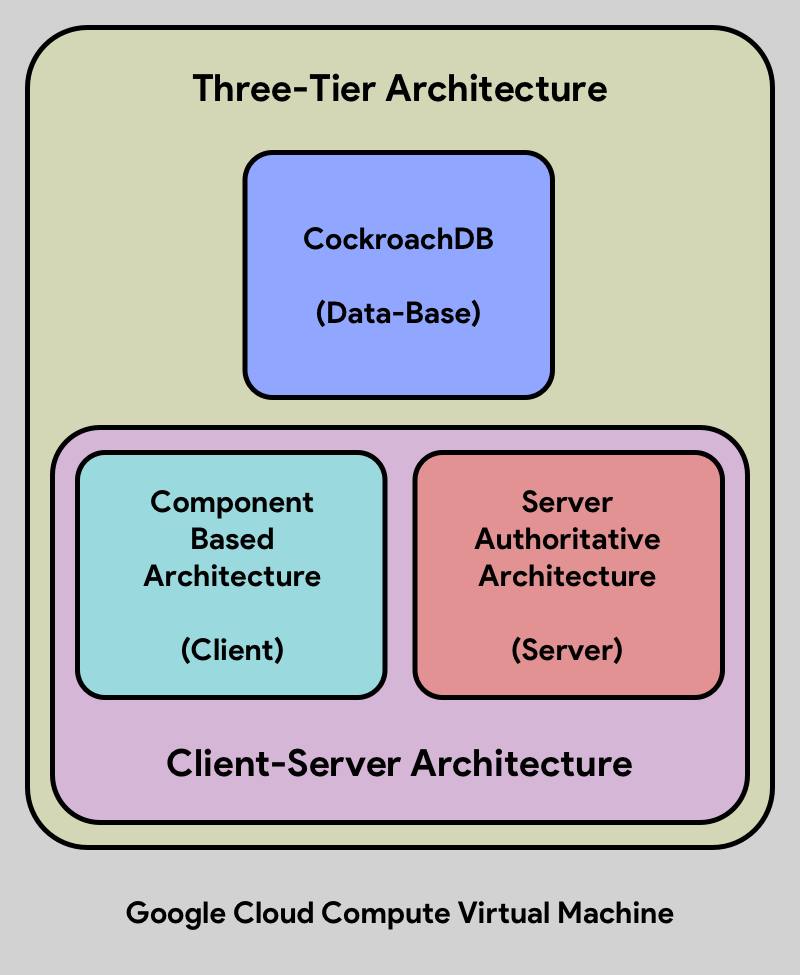
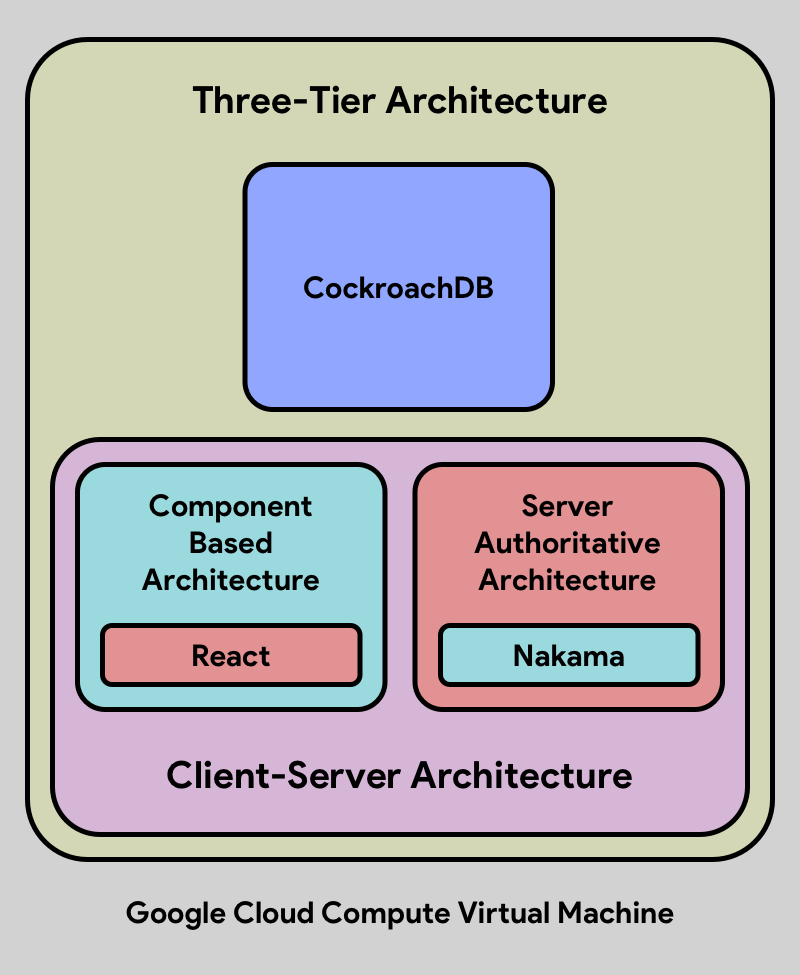
updated readme

diff --git a/README.md b/README.md
@@ -2,6 +2,8 @@
 
 Welcome to the Tic Tac Toe project! This document contains everything you need to set up, test, and deploy the game.
 
+⚠ It has been noticed during testing that some network providers with slower speeds are causing disturbance during matchmaking.
+
 ---
 
 ## 🛠 Setup Guide
